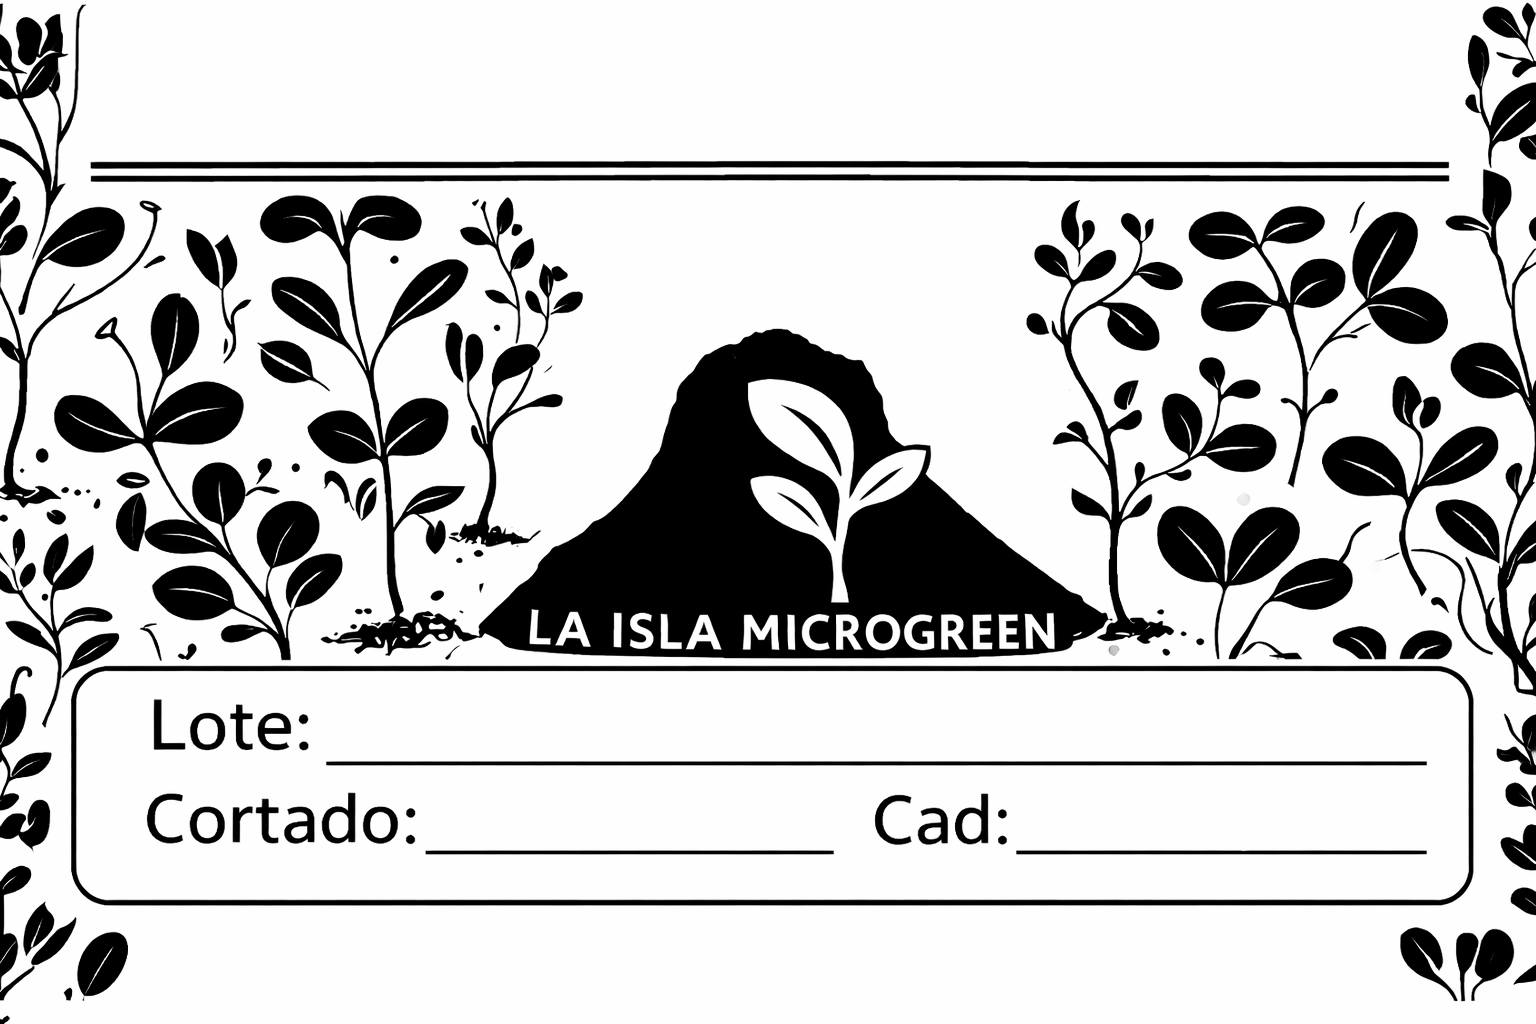
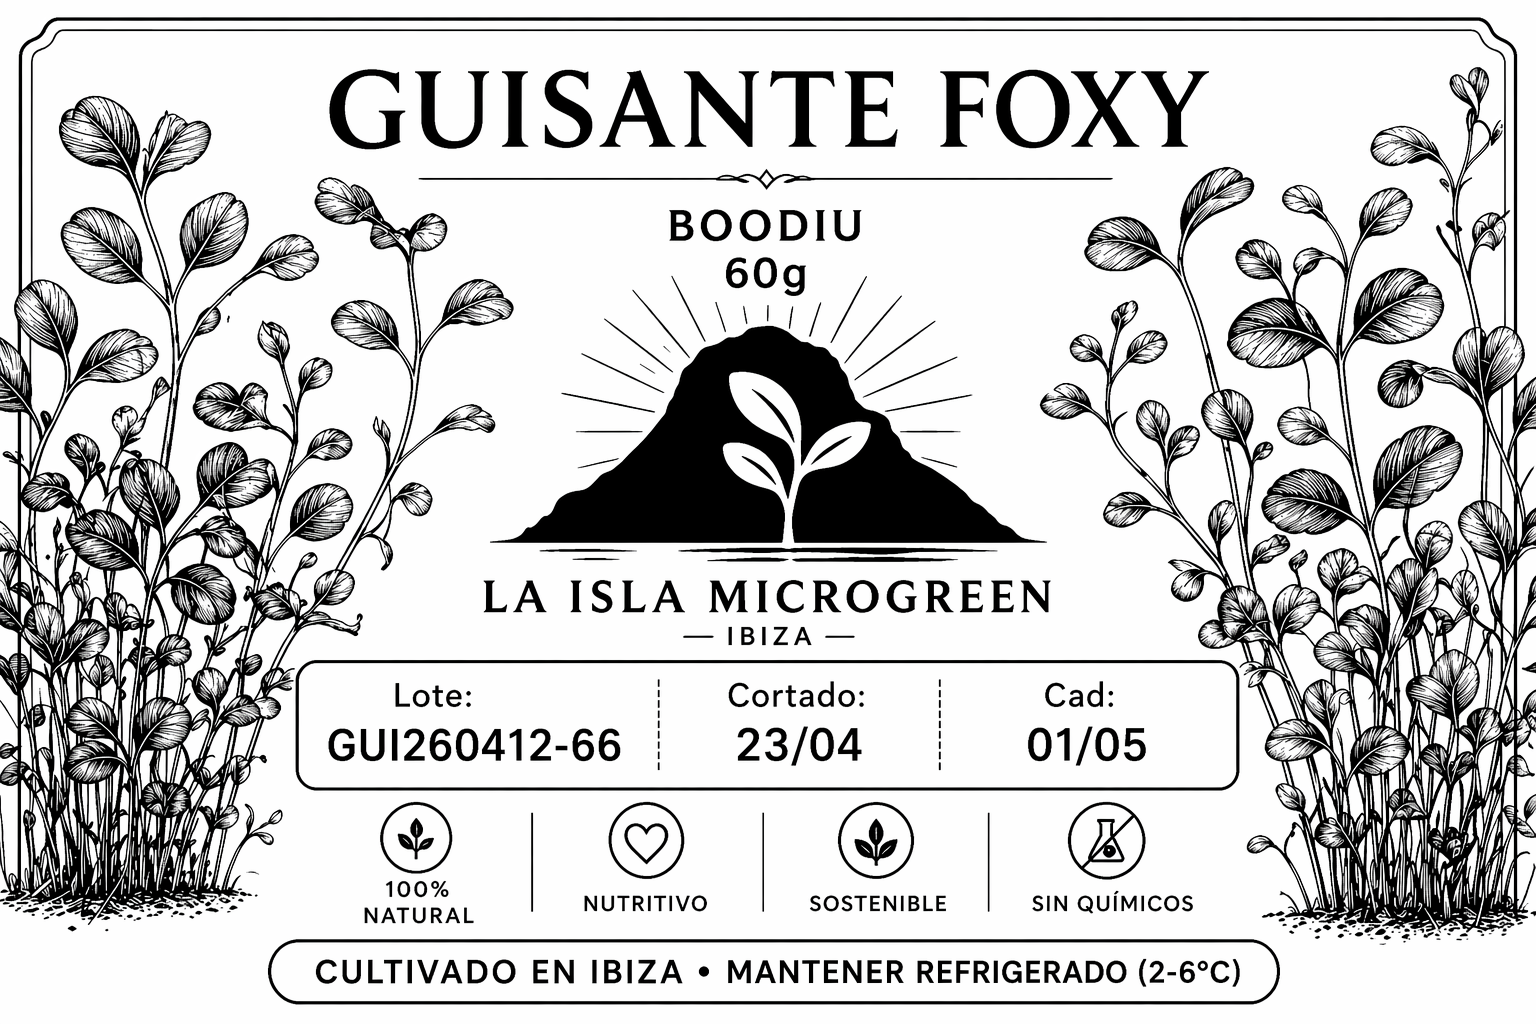
HFDTHGFHFH

diff --git a/styles.css b/styles.css
@@ -818,18 +818,18 @@ textarea:focus {
 }
 
 #txt-planta {
-    top: 3%;
+    top: 7%;
     left: 50%;
     transform: translateX(-50%);
-    font-size: 3rem;
+    font-size: 3.5rem;
     text-transform: uppercase;
     text-align: center;
     width: 100%;
 }
 
 #txt-cliente {
-    top: 18%;
-    left: 52%;
+    top: 21%;
+    left: 50%;
     transform: translateX(-50%);
     font-size: 1.6rem;
     text-transform: uppercase;
@@ -838,39 +838,50 @@ textarea:focus {
 }
 
 #txt-cant {
-    top: 23%;
-    left: 52%;
+    top: 26%;
+    left: 50%;
     transform: translateX(-50%);
     font-size: 1.6rem;
     text-align: center;
     width: 100%;
+    font-weight: bold;
 }
 
 #txt-lote {
-    top: 68%;
-    left: 40%;
-    font-size: 1.6rem;
+    top: 71.5%;
+    left: 31%;
+    transform: translateX(-50%);
+    font-size: 1.8rem;
+    text-align: center;
+    width: 30%;
 }
 
 #txt-cortado {
-    top: 77.5%;
-    left: 37%;
-    font-size: 1.6rem;
+    top: 71.5%;
+    left: 50%;
+    transform: translateX(-50%);
+    font-size: 1.8rem;
+    text-align: center;
+    width: 30%;
 }
 
 #txt-cad {
-    top: 77.5%;
-    left: 74%;
-    font-size: 1.6rem;
+    top: 71.5%;
+    left: 69%;
+    transform: translateX(-50%);
+    font-size: 1.8rem;
+    text-align: center;
+    width: 30%;
 }
 
 #txt-footer {
-    top: 96%;
+    top: 93.5%;
     left: 50%;
     transform: translateX(-50%);
     font-size: 1.1rem;
     width: 100%;
     text-align: center;
+    text-transform: uppercase;
 }
 
 #login-overlay {
